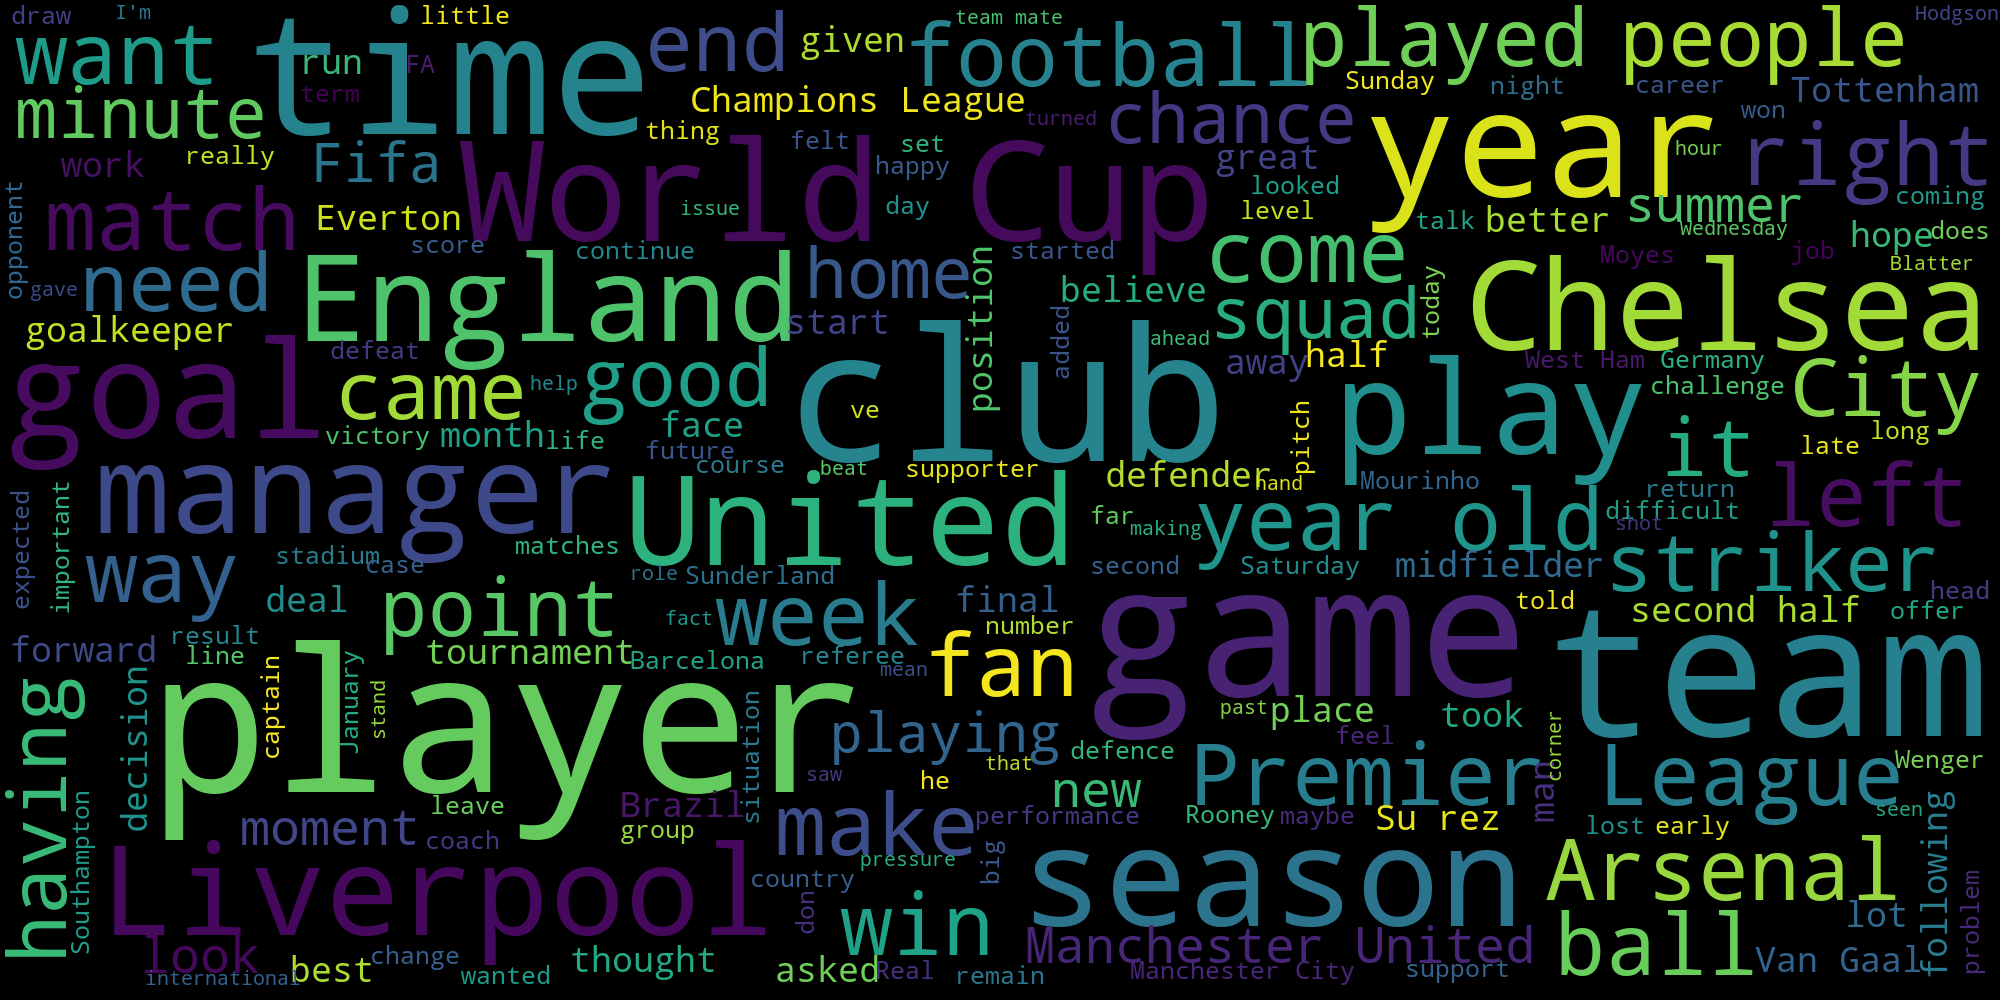
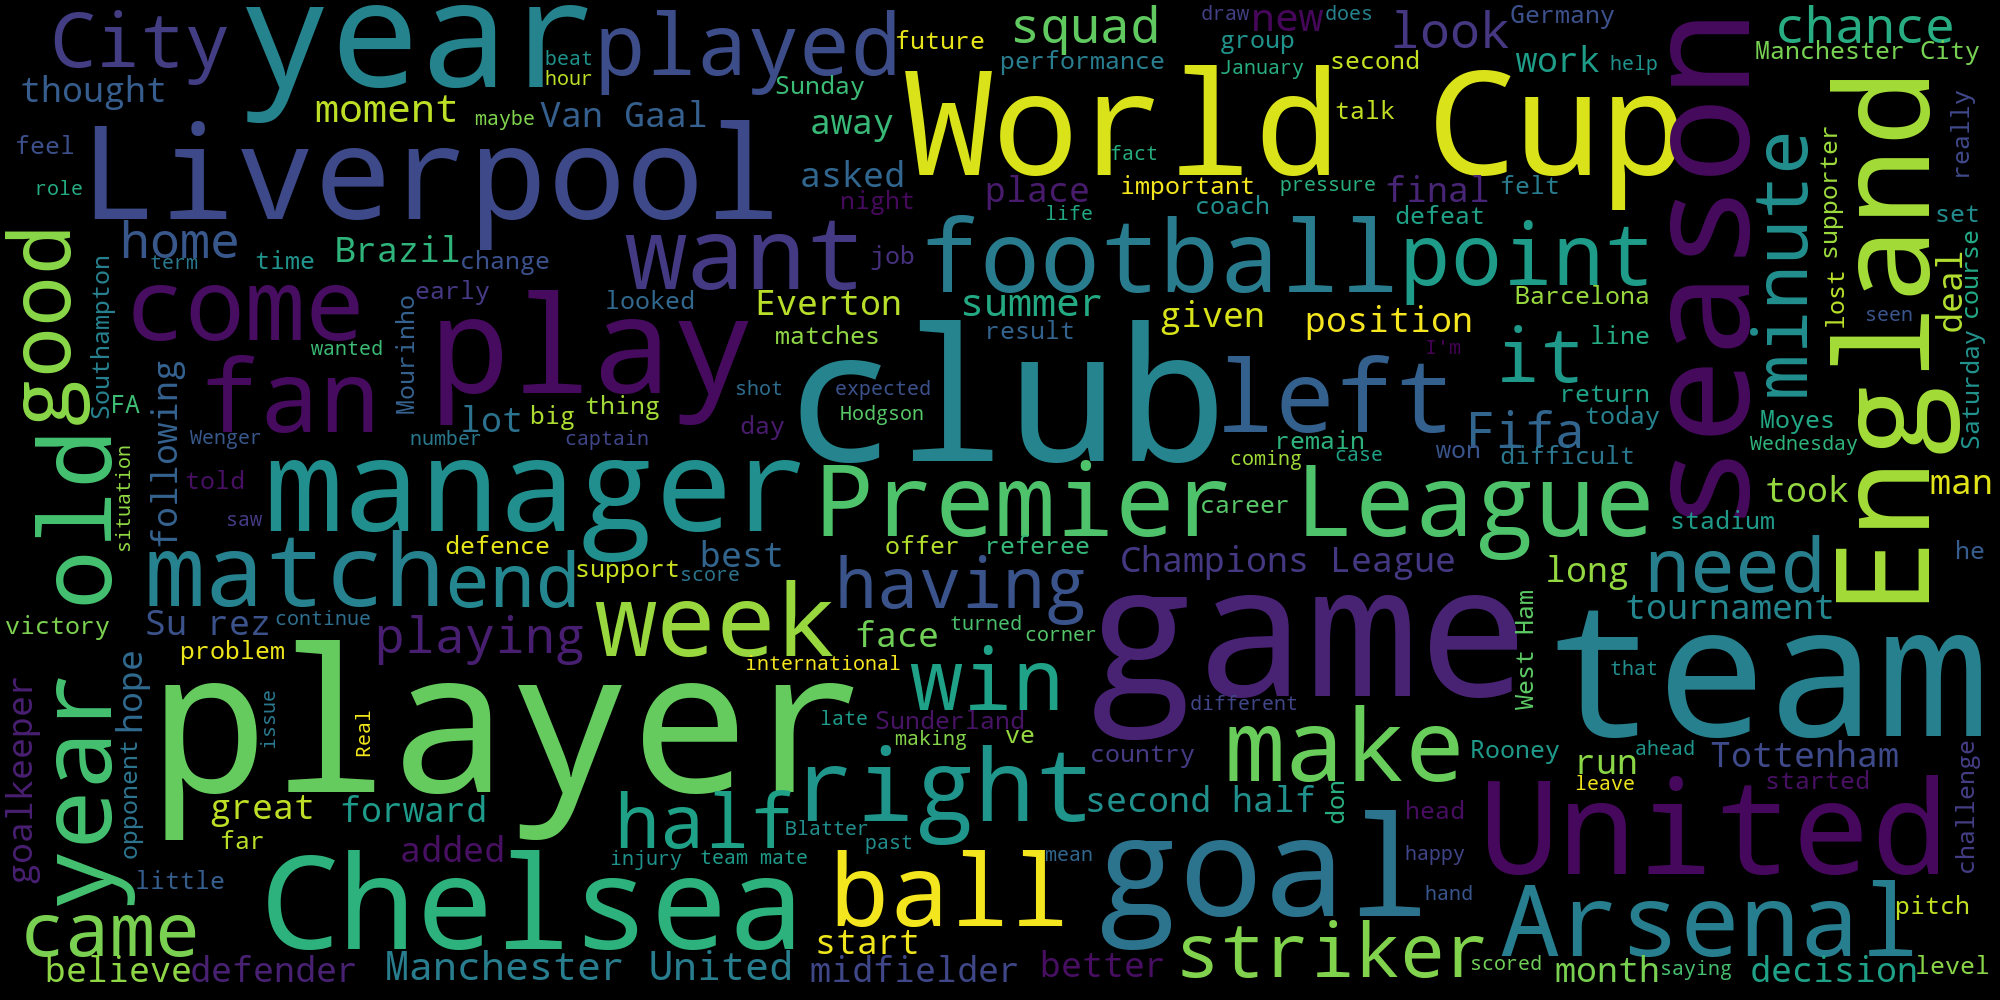
Add/use more stop_words.

diff --git a/rfClassifier.py b/rfClassifier.py
@@ -13,7 +13,36 @@ import pandas as pd
 from sklearn.preprocessing import Normalizer
 
 
+stop_words = set(ENGLISH_STOP_WORDS)
 
+
+def addPreDefinedStopWords():
+    stop_words.add('said')
+    stop_words.add('he')
+    stop_words.add('He')
+    stop_words.add('it')
+    stop_words.add('It')
+    stop_words.add('got')
+    stop_words.add("don't")
+    stop_words.add('like')
+    stop_words.add("didn't")
+    stop_words.add('ago')
+    stop_words.add('went')
+    stop_words.add('did')
+    stop_words.add('day')
+    stop_words.add('just')
+    stop_words.add('thing')
+    stop_words.add('think')
+    stop_words.add('say')
+    stop_words.add('says')
+    stop_words.add('know')
+    stop_words.add('clear')
+    stop_words.add('despite')
+    stop_words.add('going')
+    stop_words.add('time')
+    stop_words.add('people')
+    stop_words.add('way')
+    # TODO - Add more stopWords...
 
 
 def split_dataset(dataset, train_percentage, feature_headers, target_header):
@@ -51,7 +80,8 @@ if __name__ == '__main__':
     y = le.transform(train_data["Category"])
 
     # print y
-    count_vectorizer = CountVectorizer(stop_words=ENGLISH_STOP_WORDS)
+    addPreDefinedStopWords()
+    count_vectorizer = CountVectorizer(stop_words)
     #tfidf = TfidfTransformer()
     clf = RandomForestClassifier(n_estimators=50)
 

diff --git a/myClassifier.py b/myClassifier.py
@@ -33,8 +33,15 @@ def addPreDefinedStopWords():
     stop_words.add('thing')
     stop_words.add('think')
     stop_words.add('say')
+    stop_words.add('says')
     stop_words.add('know')
-    # TODO - Add more stopWords..
+    stop_words.add('clear')
+    stop_words.add('despite')
+    stop_words.add('going')
+    stop_words.add('time')
+    stop_words.add('people')
+    stop_words.add('way')
+    # TODO - Add more stopWords...
 
 
 def split_dataset(dataset, train_percentage, feature_headers, target_header):

diff --git a/svmClassifier.py b/svmClassifier.py
@@ -32,7 +32,14 @@ def addPreDefinedStopWords():
     stop_words.add('thing')
     stop_words.add('think')
     stop_words.add('say')
+    stop_words.add('says')
     stop_words.add('know')
+    stop_words.add('clear')
+    stop_words.add('despite')
+    stop_words.add('going')
+    stop_words.add('time')
+    stop_words.add('people')
+    stop_words.add('way')
     # TODO - Add more stopWords..
 
 

diff --git a/myWordcloud.py b/myWordcloud.py
@@ -41,7 +41,9 @@ def addPreDefinedStopWords():
     stop_words.add('clear')
     stop_words.add('despite')
     stop_words.add('going')
-
+    stop_words.add('time')
+    stop_words.add('people')
+    stop_words.add('way')
     # TODO - Add more stopWords..
 
 
